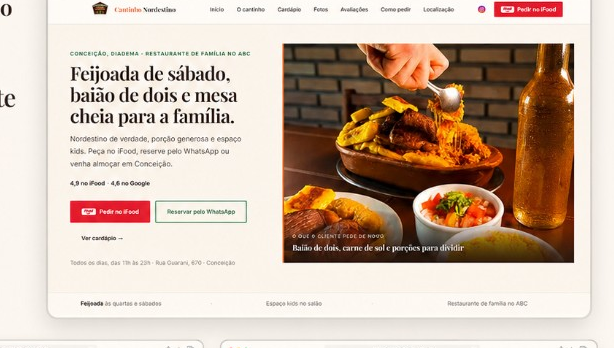
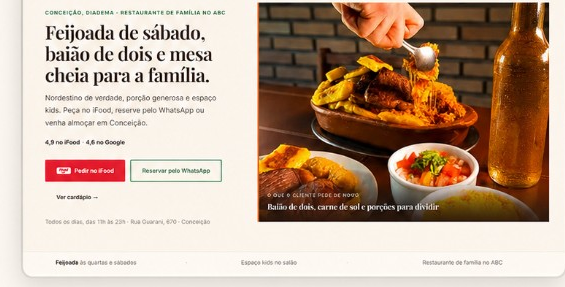
Reorganiza card e modal do portfolio restaurante

diff --git a/src/components/ui/RestaurantConceptShowcase.tsx b/src/components/ui/RestaurantConceptShowcase.tsx
@@ -1,4 +1,5 @@
 import Image from "next/image";
+import { DeviceFrame } from "@/components/ui/LandingMockup";
 
 const BASE = "/assets/portfolio/restaurant";
 
@@ -7,19 +8,16 @@ const desktopShots = [
     src: `${BASE}/desktop-hero.png`,
     alt: "Demonstração desktop — página inicial do restaurante",
     label: "Página inicial",
-    className: "w-full",
   },
   {
     src: `${BASE}/desktop-menu.png`,
     alt: "Demonstração desktop — destaques do cardápio",
     label: "Cardápio",
-    className: "w-full",
   },
   {
     src: `${BASE}/desktop-reviews.png`,
     alt: "Demonstração desktop — avaliações e Instagram",
     label: "Avaliações",
-    className: "w-full",
   },
 ];
 
@@ -46,34 +44,46 @@ const mobileShots = [
   },
 ];
 
-function ShotCard({
+function ScreenImage({
+  src,
+  alt,
+  className,
+}: {
+  src: string;
+  alt: string;
+  className?: string;
+}) {
+  return (
+    <Image
+      src={src}
+      alt={alt}
+      fill
+      className={`object-cover object-top ${className ?? ""}`}
+      sizes="(max-width: 768px) 100vw, 400px"
+    />
+  );
+}
+
+function GalleryShot({
   src,
   alt,
   label,
-  className,
-  compact = false,
+  aspect = "desktop",
 }: {
   src: string;
   alt: string;
   label: string;
-  className?: string;
-  compact?: boolean;
+  aspect?: "desktop" | "mobile";
 }) {
+  const aspectClass =
+    aspect === "desktop" ? "aspect-[16/10]" : "aspect-[9/16]";
+
   return (
-    <figure className={className}>
+    <figure className="flex flex-col">
       <div
-        className={`overflow-hidden rounded-lg border border-border bg-white shadow-sm ${
-          compact ? "mx-auto max-w-[120px]" : ""
-        }`}
+        className={`relative overflow-hidden rounded-lg border border-border bg-white shadow-sm ${aspectClass}`}
       >
-        <Image
-          src={src}
-          alt={alt}
-          width={compact ? 120 : 614}
-          height={compact ? 220 : 348}
-          className="h-auto w-full"
-          sizes={compact ? "120px" : "(max-width: 768px) 100vw, 50vw"}
-        />
+        <ScreenImage src={src} alt={alt} />
       </div>
       <figcaption className="mt-2 text-center text-xs text-muted">
         {label}
@@ -82,41 +92,56 @@ function ShotCard({
   );
 }
 
+/** Miniatura do card — mesmo padrão visual dos outros conceitos */
 export function RestaurantConceptCardPreview() {
   return (
-    <div className="mx-auto w-full max-w-[300px] overflow-hidden rounded-xl border border-border bg-[#faf5ef] shadow-sm">
-      <Image
-        src={`${BASE}/card-preview.png`}
-        alt="Demonstração conceitual — landing page para restaurante, desktop e mobile"
-        width={560}
-        height={317}
-        className="h-auto w-full"
-        sizes="300px"
-        priority
-      />
+    <div className="relative mx-auto flex w-full max-w-[300px] items-end justify-center">
+      <DeviceFrame type="laptop" className="relative z-10 w-full max-w-[300px]">
+        <div className="relative aspect-[16/10] w-full bg-white">
+          <ScreenImage
+            src={`${BASE}/desktop-hero.png`}
+            alt="Demonstração conceitual — landing page para restaurante"
+          />
+        </div>
+      </DeviceFrame>
+      <DeviceFrame
+        type="phone"
+        className="absolute -right-1 bottom-3 z-20 w-[96px] sm:-right-2"
+      >
+        <div className="relative aspect-[9/16] w-full bg-white">
+          <ScreenImage
+            src={`${BASE}/mobile-hero.png`}
+            alt="Demonstração mobile — restaurante"
+          />
+        </div>
+      </DeviceFrame>
     </div>
   );
 }
 
 export function RestaurantConceptModalGallery() {
   return (
-    <div className="space-y-8">
+    <div className="space-y-10">
       <div>
-        <p className="mb-4 text-sm font-semibold text-foreground">Versão desktop</p>
+        <p className="mb-4 text-xs font-semibold uppercase tracking-wide text-muted">
+          Versão desktop
+        </p>
         <div className="space-y-4">
-          <ShotCard {...desktopShots[0]} />
+          <GalleryShot {...desktopShots[0]} aspect="desktop" />
           <div className="grid gap-4 sm:grid-cols-2">
-            <ShotCard {...desktopShots[1]} />
-            <ShotCard {...desktopShots[2]} />
+            <GalleryShot {...desktopShots[1]} aspect="desktop" />
+            <GalleryShot {...desktopShots[2]} aspect="desktop" />
           </div>
         </div>
       </div>
 
       <div>
-        <p className="mb-4 text-sm font-semibold text-foreground">Versão mobile</p>
+        <p className="mb-4 text-xs font-semibold uppercase tracking-wide text-muted">
+          Versão mobile
+        </p>
         <div className="grid grid-cols-2 gap-4 sm:grid-cols-4">
           {mobileShots.map((shot) => (
-            <ShotCard key={shot.src} {...shot} compact />
+            <GalleryShot key={shot.src} {...shot} aspect="mobile" />
           ))}
         </div>
       </div>

diff --git a/src/components/sections/LandingPossibilities.tsx b/src/components/sections/LandingPossibilities.tsx
@@ -147,7 +147,7 @@ function DemoModal({
         </div>
 
         {portfolio && variant === "restaurant" ? (
-          <div className="rounded-xl bg-[#faf5ef] px-4 py-6 sm:px-6 sm:py-8">
+          <div className="rounded-xl bg-surface px-4 py-6 sm:px-6 sm:py-8">
             <RestaurantConceptModalGallery />
           </div>
         ) : (
@@ -188,7 +188,7 @@ export function LandingPossibilities() {
           {possibilities.map((item) => (
             <StaggerItem key={item.title} className="h-full">
               <div className="flex h-full flex-col overflow-hidden rounded-2xl border border-border bg-white transition-all duration-300 hover:border-gray-200 hover:shadow-md">
-                <div className="flex shrink-0 items-center justify-center bg-[#faf5ef] px-4 py-8 sm:px-5">
+                <div className="flex min-h-[280px] shrink-0 items-center justify-center bg-surface px-4 py-8 sm:px-5">
                   {item.portfolio && item.variant === "restaurant" ? (
                     <RestaurantConceptCardPreview />
                   ) : (

diff --git a/scripts/crop-restaurant-portfolio.py b/scripts/crop-restaurant-portfolio.py
@@ -11,14 +11,15 @@ OUT.mkdir(parents=True, exist_ok=True)
 img = Image.open(SRC)
 w, h = img.size
 
+# Recortes focados no conteúdo das telas (sem bordas do mockup)
 crops = {
-    "desktop-hero": (0.24, 0.07, 0.99, 0.41),
-    "desktop-menu": (0.24, 0.41, 0.52, 0.69),
-    "desktop-reviews": (0.50, 0.41, 0.99, 0.69),
-    "mobile-hero": (0.02, 0.70, 0.26, 0.98),
-    "mobile-menu": (0.25, 0.70, 0.49, 0.98),
-    "mobile-reviews": (0.49, 0.70, 0.73, 0.98),
-    "mobile-nav": (0.72, 0.70, 0.98, 0.98),
+    "desktop-hero": (0.27, 0.11, 0.96, 0.39),
+    "desktop-menu": (0.27, 0.43, 0.50, 0.67),
+    "desktop-reviews": (0.52, 0.43, 0.96, 0.67),
+    "mobile-hero": (0.05, 0.72, 0.24, 0.96),
+    "mobile-menu": (0.27, 0.72, 0.47, 0.96),
+    "mobile-reviews": (0.52, 0.72, 0.71, 0.96),
+    "mobile-nav": (0.74, 0.72, 0.95, 0.96),
 }
 
 for name, (left, top, right, bottom) in crops.items():
@@ -26,35 +27,3 @@ for name, (left, top, right, bottom) in crops.items():
     cropped = img.crop(box)
     cropped.save(OUT / f"{name}.png", optimize=True)
     print(f"{name}: {cropped.size}")
-
-hero = Image.open(OUT / "desktop-hero.png")
-m1 = Image.open(OUT / "mobile-hero.png")
-m2 = Image.open(OUT / "mobile-menu.png")
-
-target_w = 560
-hero_resized = hero.resize(
-    (target_w, int(hero.height * target_w / hero.width)),
-    Image.Resampling.LANCZOS,
-)
-phone_w = 84
-m1_r = m1.resize(
-    (phone_w, int(m1.height * phone_w / m1.width)),
-    Image.Resampling.LANCZOS,
-)
-m2_r = m2.resize(
-    (phone_w, int(m2.height * phone_w / m2.width)),
-    Image.Resampling.LANCZOS,
-)
-
-composite = Image.new("RGB", (target_w, hero_resized.height), (250, 245, 238))
-composite.paste(hero_resized, (0, 0))
-composite.paste(
-    m1_r,
-    (target_w - phone_w * 2 - 24, hero_resized.height - m1_r.height - 8),
-)
-composite.paste(
-    m2_r,
-    (target_w - phone_w - 12, hero_resized.height - m2_r.height - 8),
-)
-composite.save(OUT / "card-preview.png", optimize=True)
-print(f"card-preview: {composite.size}")
